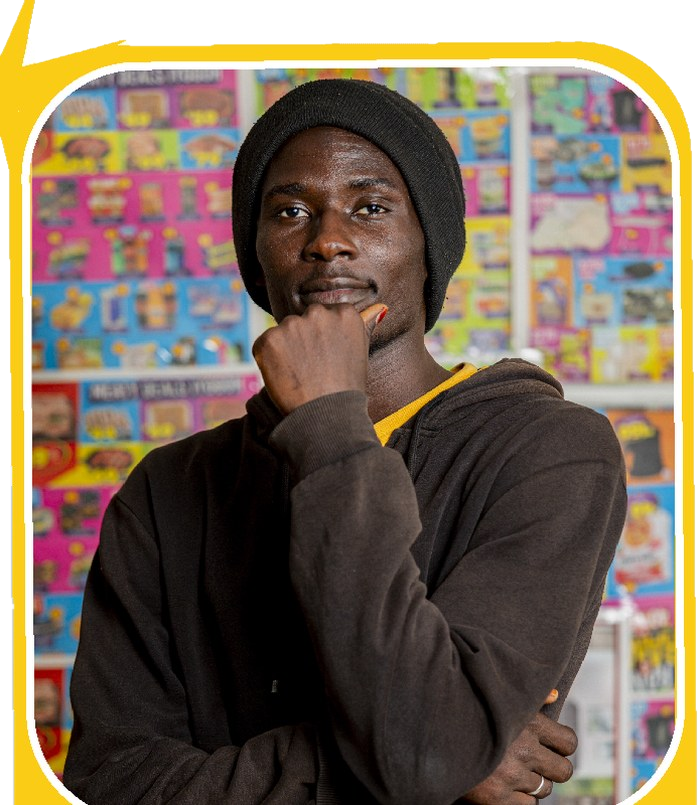
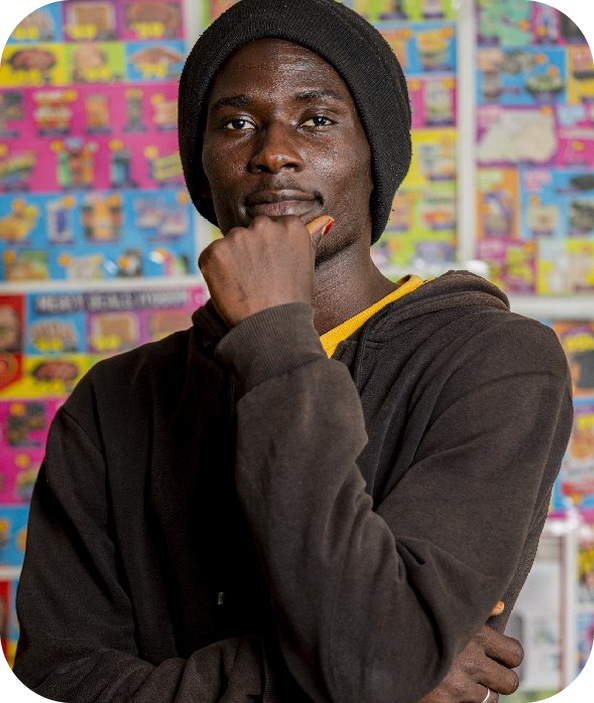
Photo de profil : contour jaune et pointillé retirés, coins arrondis
Claude-Session: https://claude.ai/code/session_01YWH1SMddUxxSvLNJcYG4fP

diff --git a/public/index.html b/public/index.html
@@ -13,7 +13,7 @@
 
 <link rel="preconnect" href="https://api.fontshare.com" crossorigin>
 <link rel="stylesheet" href="https://api.fontshare.com/v2/css?f[]=clash-display@400,500,600,700&display=swap">
-<link rel="stylesheet" href="css/style.css?v=202610231758">
+<link rel="stylesheet" href="css/style.css?v=202610231801">
 </head>
 <body>
 
@@ -101,7 +101,7 @@
     <div class="avatar-wrap reveal">
       <div class="avatar-ring"></div>
       <div class="avatar-frame">
-        <img src="images/profile_niaye.png" alt="Niaye Sall" width="699" height="805" style="display:block;">
+        <img src="images/profile_niaye.png" alt="Niaye Sall" width="594" height="703" style="display:block;">
       </div>
       <div class="avatar-tag"><i class="fa-solid fa-location-dot"></i> Saint-Louis, Sénégal</div>
     </div>
@@ -337,7 +337,7 @@
 
 <button id="toTop" aria-label="Retour en haut"><i class="fa-solid fa-arrow-up"></i></button>
 
-<script src="js/common.js?v=202610231758"></script>
-<script src="js/script.js?v=202610231758"></script>
+<script src="js/common.js?v=202610231801"></script>
+<script src="js/script.js?v=202610231801"></script>
 </body>
 </html>

diff --git a/public/admin.html b/public/admin.html
@@ -9,7 +9,7 @@
 <link rel="preconnect" href="https://fonts.gstatic.com" crossorigin>
 <link href="https://fonts.googleapis.com/css2?family=Marcellus&family=Sora:wght@400;500;600;700;800&family=JetBrains+Mono:wght@500;600&display=swap" rel="stylesheet">
 <link rel="stylesheet" href="https://cdnjs.cloudflare.com/ajax/libs/font-awesome/6.5.1/css/all.min.css">
-<link rel="stylesheet" href="css/admin.css?v=202610231758">
+<link rel="stylesheet" href="css/admin.css?v=202610231801">
 <script>try{var t=localStorage.getItem('nk-theme');if(t==='dark'||(!t&&matchMedia('(prefers-color-scheme: dark)').matches))document.documentElement.classList.add('dark')}catch(e){}</script>
 </head>
 <body>
@@ -240,6 +240,6 @@
 
 <div class="toasts" id="toasts" aria-live="polite"></div>
 
-<script src="js/admin.js?v=202610231758"></script>
+<script src="js/admin.js?v=202610231801"></script>
 </body>
 </html>

diff --git a/public/suivi.html b/public/suivi.html
@@ -11,7 +11,7 @@
 <link rel="stylesheet" href="https://cdnjs.cloudflare.com/ajax/libs/font-awesome/6.5.1/css/all.min.css">
 <link rel="preconnect" href="https://api.fontshare.com" crossorigin>
 <link rel="stylesheet" href="https://api.fontshare.com/v2/css?f[]=clash-display@400,500,600,700&display=swap">
-<link rel="stylesheet" href="css/style.css?v=202610231758">
+<link rel="stylesheet" href="css/style.css?v=202610231801">
 </head>
 <body>
 
@@ -101,7 +101,7 @@
 
 <button id="toTop" aria-label="Retour en haut"><i class="fa-solid fa-arrow-up"></i></button>
 
-<script src="js/common.js?v=202610231758"></script>
-<script src="js/suivi.js?v=202610231758"></script>
+<script src="js/common.js?v=202610231801"></script>
+<script src="js/suivi.js?v=202610231801"></script>
 </body>
 </html>

diff --git a/public/css/style.css b/public/css/style.css
@@ -786,3 +786,6 @@ html.dark .web-body .cat{color:var(--accent);}
 /* ---------- Photo de profil détourée (plus de fond blanc autour du cadre) ---------- */
 .avatar-frame{aspect-ratio:auto; background:none; box-shadow:none; border-radius:0; overflow:visible;}
 .avatar-frame img{width:100%; height:auto; object-fit:contain; filter:drop-shadow(0 22px 28px rgba(0,0,0,.35));}
+/* contour jaune retiré : photo seule, coins arrondis, sans pointillé doré */
+.avatar-ring{display:none;}
+.avatar-frame img{filter:drop-shadow(0 20px 30px rgba(0,0,0,.32));}
